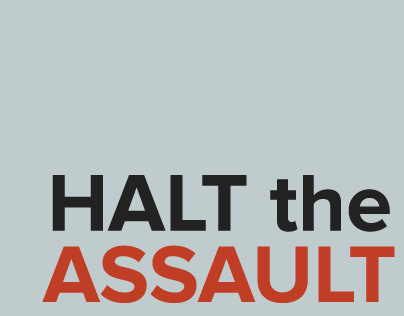
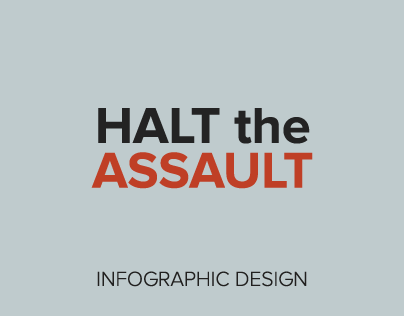
portfolio

Changed region(s): [[0.1188, 0.3418, 0.9802, 0.7405], [0.0891, 0.769, 0.9802, 0.9684]]

diff --git a/index.html b/index.html
@@ -111,7 +111,7 @@
                                 <i class="fa fa-search-plus fa-3x"></i>
                             </div>-->
                         </div>
-                        <img src="img/portfolio/game.png" class="img-responsive" alt="">
+                        <img src="img/portfolio/xtc.png" class="img-responsive" alt="">
                     </a>
                 </div>
                 <div class="col-sm-4 portfolio-item">
@@ -121,7 +121,7 @@
                                 <i class="fa fa-search-plus fa-3x"></i>
                             </div>-->
                         </div>
-                        <img src="img/portfolio/safe.png" class="img-responsive" alt="">
+                        <img src="img/portfolio/bomber.png" class="img-responsive" alt="">
                     </a>
                 </div>
                 <div class="col-sm-4 portfolio-item">
@@ -131,7 +131,7 @@
                                 <i class="fa fa-search-plus fa-3x"></i>
                             </div>-->
                         </div>
-                        <img src="img/portfolio/submarine.png" class="img-responsive" alt="">
+                        <img src="img/portfolio/twsa.png" class="img-responsive" alt="">
                     </a>
                 </div>
             </div>
@@ -202,11 +202,11 @@
                             <img src="img/portfolio/cabin.png" class="img-responsive img-centered" alt="">
                             <p>Branding proposal for the National Business and Technology Conference 2015, based on the theme of momentum.</p>
                             <ul class="list-inline item-details">
-                                <li><strong>Client:</strong> NBTC
+                                <li><strong>Client: </strong>NBTC
                                 </li>
-                                <li><strong>Date:</strong> Sep. 2014 - Mar. 2015
+                                <li><strong>Date: </strong>Sep. 2014 - Mar. 2015
                                 </li>
-                                <li><strong>Service:</strong> Branding, Graphic Design
+                                <li><strong>Service: </strong>Branding, Graphic Design
                                 </li>
                             </ul>
                             <button type="button" class="btn btn-default" data-dismiss="modal">Close</button>
@@ -231,21 +231,15 @@
                 <div class="row">
                     <div class="col-lg-8 col-lg-offset-2">
                         <div class="modal-body">
-                            <h2>Project Title</h2>
+                            <h2>Halt the Assault</h2>
                             <img src="img/portfolio/cake.png" class="img-responsive img-centered" alt="">
-                            <p>Use this area of the page to describe your project. The icon above is part of a free icon set by <a href="https://sellfy.com/p/8Q9P/jV3VZ/">Flat Icons</a>. On their website, you can download their free set with 16 icons, or you can purchase the entire set with 146 icons for only $12!</p>
+                            <p>Infographic design about Sexual Assault. Theme is grey to represent emptiness felt by assault victims, with red and orange accents to represent danger and caution.</p>
                             <ul class="list-inline item-details">
-                                <li>Client:
-                                    <strong><a href="http://startbootstrap.com">Start Bootstrap</a>
-                                    </strong>
+                                <li><strong>Client: </strong>Personal
                                 </li>
-                                <li>Date:
-                                    <strong><a href="http://startbootstrap.com">April 2014</a>
-                                    </strong>
+                                <li><strong>Date: </strong>Nov. 2015
                                 </li>
-                                <li>Service:
-                                    <strong><a href="http://startbootstrap.com">Web Development</a>
-                                    </strong>
+                                <li><strong>Service: </strong>Graphic Design, Digital Art
                                 </li>
                             </ul>
                             <button type="button" class="btn btn-default" data-dismiss="modal">Close</button>
@@ -267,21 +261,15 @@
                 <div class="row">
                     <div class="col-lg-8 col-lg-offset-2">
                         <div class="modal-body">
-                            <h2>Project Title</h2>
+                            <h2>Ubiq: Buyer's Guide</h2>
                             <img src="img/portfolio/circus.png" class="img-responsive img-centered" alt="">
-                            <p>Use this area of the page to describe your project. The icon above is part of a free icon set by <a href="https://sellfy.com/p/8Q9P/jV3VZ/">Flat Icons</a>. On their website, you can download their free set with 16 icons, or you can purchase the entire set with 146 icons for only $12!</p>
+                            <p>Document design for Ubiq, a simple solution that eliminates the hassle of cables and switch boxes – presenting wirelessly straight from your device.</p>
                             <ul class="list-inline item-details">
-                                <li>Client:
-                                    <strong><a href="http://startbootstrap.com">Start Bootstrap</a>
-                                    </strong>
+                                <li><strong>Client: </strong>Ubiq
                                 </li>
-                                <li>Date:
-                                    <strong><a href="http://startbootstrap.com">April 2014</a>
-                                    </strong>
+                                <li><strong>Date: </strong>Oct. 2015
                                 </li>
-                                <li>Service:
-                                    <strong><a href="http://startbootstrap.com">Web Development</a>
-                                    </strong>
+                                <li><strong>Service: </strong>Branding, Editorial Design, Iconography
                                 </li>
                             </ul>
                             <button type="button" class="btn btn-default" data-dismiss="modal">Close</button>
@@ -303,21 +291,15 @@
                 <div class="row">
                     <div class="col-lg-8 col-lg-offset-2">
                         <div class="modal-body">
-                            <h2>Project Title</h2>
+                            <h2>XTC Records Inc.</h2>
                             <img src="img/portfolio/game.png" class="img-responsive img-centered" alt="">
-                            <p>Use this area of the page to describe your project. The icon above is part of a free icon set by <a href="https://sellfy.com/p/8Q9P/jV3VZ/">Flat Icons</a>. On their website, you can download their free set with 16 icons, or you can purchase the entire set with 146 icons for only $12!</p>
+                            <p>Logo design for XTC Records Inc., a record company.</p>
                             <ul class="list-inline item-details">
-                                <li>Client:
-                                    <strong><a href="http://startbootstrap.com">Start Bootstrap</a>
-                                    </strong>
+                                <li><strong>Client: </strong>XTC Records Inc.
                                 </li>
-                                <li>Date:
-                                    <strong><a href="http://startbootstrap.com">April 2014</a>
-                                    </strong>
+                                <li><strong>Date: </strong>Dec. 2014
                                 </li>
-                                <li>Service:
-                                    <strong><a href="http://startbootstrap.com">Web Development</a>
-                                    </strong>
+                                <li><strong>Service: </strong>Logo Design
                                 </li>
                             </ul>
                             <button type="button" class="btn btn-default" data-dismiss="modal">Close</button>
@@ -339,21 +321,15 @@
                 <div class="row">
                     <div class="col-lg-8 col-lg-offset-2">
                         <div class="modal-body">
-                            <h2>Project Title</h2>
+                            <h2>Bomber Social Night</h2>
                             <img src="img/portfolio/safe.png" class="img-responsive img-centered" alt="">
-                            <p>Use this area of the page to describe your project. The icon above is part of a free icon set by <a href="https://sellfy.com/p/8Q9P/jV3VZ/">Flat Icons</a>. On their website, you can download their free set with 16 icons, or you can purchase the entire set with 146 icons for only $12!</p>
+                            <p>Poster and Facebook banner design for Bomber Social Night, presented by the Taiwanese Waterloo Student Association.</p>
                             <ul class="list-inline item-details">
-                                <li>Client:
-                                    <strong><a href="http://startbootstrap.com">Start Bootstrap</a>
-                                    </strong>
+                                <li><strong>Client: </strong>TWSA
                                 </li>
-                                <li>Date:
-                                    <strong><a href="http://startbootstrap.com">April 2014</a>
-                                    </strong>
+                                <li><strong>Date: </strong>Nov. 2014
                                 </li>
-                                <li>Service:
-                                    <strong><a href="http://startbootstrap.com">Web Development</a>
-                                    </strong>
+                                <li><strong>Service: </strong>Graphic Design
                                 </li>
                             </ul>
                             <button type="button" class="btn btn-default" data-dismiss="modal">Close</button>
@@ -375,21 +351,15 @@
                 <div class="row">
                     <div class="col-lg-8 col-lg-offset-2">
                         <div class="modal-body">
-                            <h2>Project Title</h2>
+                            <h2>TWSA: Standing Banner</h2>
                             <img src="img/portfolio/submarine.png" class="img-responsive img-centered" alt="">
-                            <p>Use this area of the page to describe your project. The icon above is part of a free icon set by <a href="https://sellfy.com/p/8Q9P/jV3VZ/">Flat Icons</a>. On their website, you can download their free set with 16 icons, or you can purchase the entire set with 146 icons for only $12!</p>
+                            <p>Standing banner design that currently represents the Taiwanese Waterloo Student Association on the University of Waterloo campus.</p>
                             <ul class="list-inline item-details">
-                                <li>Client:
-                                    <strong><a href="http://startbootstrap.com">Start Bootstrap</a>
-                                    </strong>
+                                <li><strong>Client: </strong>TWSA
                                 </li>
-                                <li>Date:
-                                    <strong><a href="http://startbootstrap.com">April 2014</a>
-                                    </strong>
+                                <li><strong>Date: </strong> Dec. 2014
                                 </li>
-                                <li>Service:
-                                    <strong><a href="http://startbootstrap.com">Web Development</a>
-                                    </strong>
+                                <li><strong>Service: </strong>Graphic Design, Digital Art
                                 </li>
                             </ul>
                             <button type="button" class="btn btn-default" data-dismiss="modal">Close</button>

diff --git a/mail/contact_me.php b/mail/contact_me.php
@@ -19,7 +19,7 @@ $message = $_POST['message'];
 $to = 'ew2chung@outlook.com'; // Add your email address inbetween the '' replacing yourname@yourdomain.com - This is where the form will send a message to.
 $email_subject = "Website Contact Form:  $name";
 $email_body = "You have received a new message from your website contact form.\n\n"."Here are the details:\n\nName: $name\n\nEmail: $email_address\n\nPhone: $phone\n\nMessage:\n$message";
-$headers = "From: noreply@ericchungdesign.ca\n"; // This is the email address the generated message will be from. We recommend using something like noreply@yourdomain.com.
+$headers = "From: noreply@ericchungdesign.com\n"; // This is the email address the generated message will be from. We recommend using something like noreply@yourdomain.com.
 $headers .= "Reply-To: $email_address";
 mail($to,$email_subject,$email_body,$headers);
 return true;
